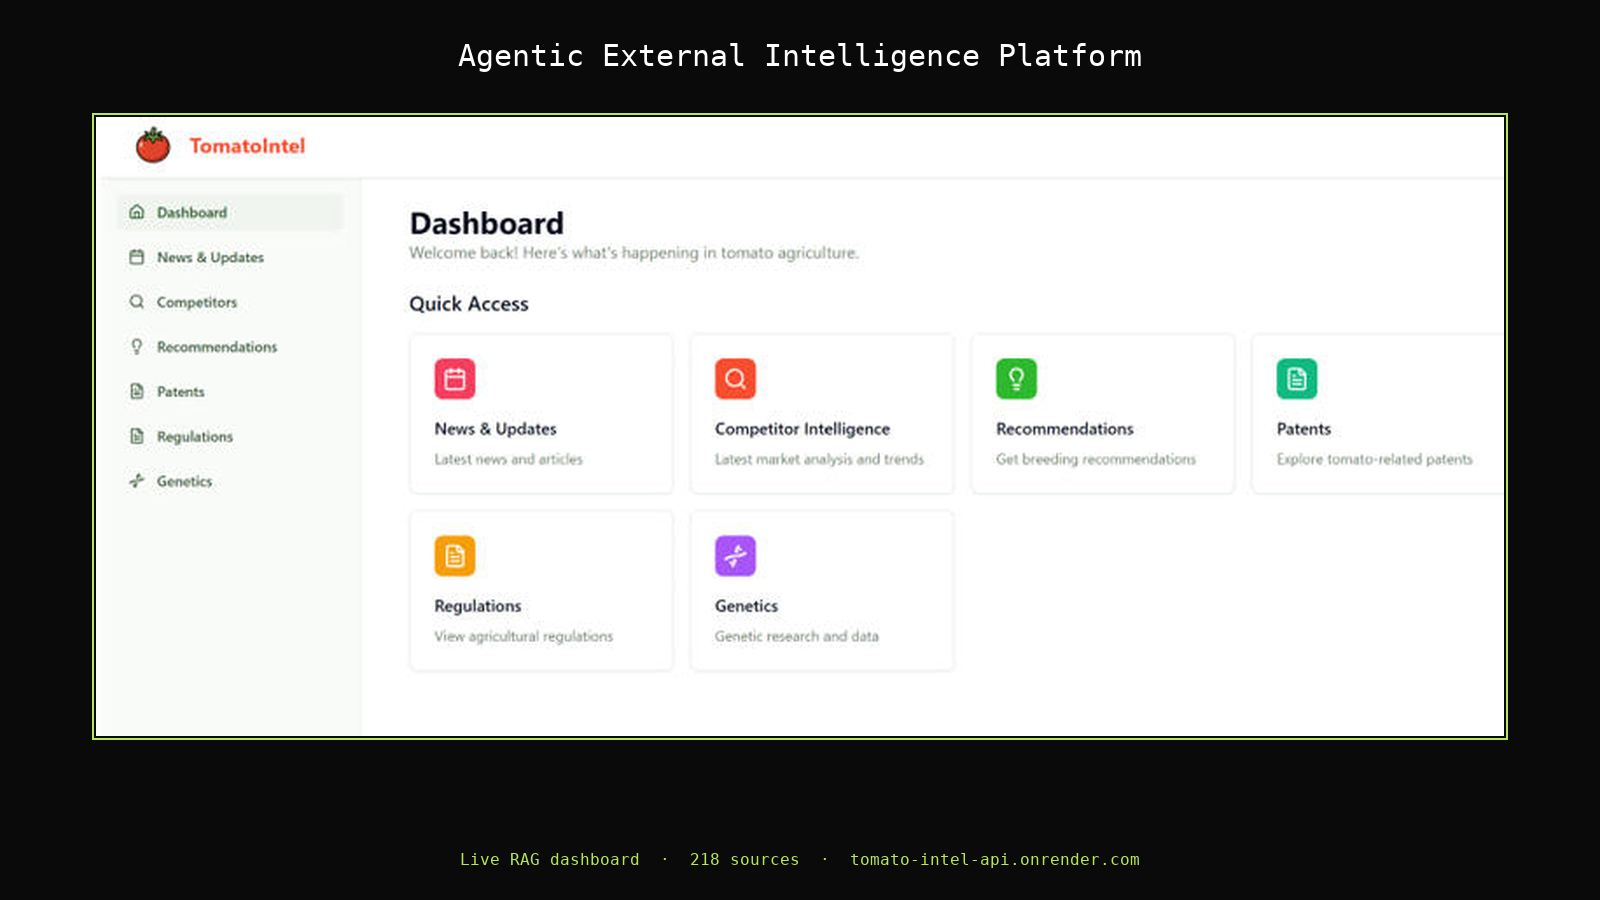
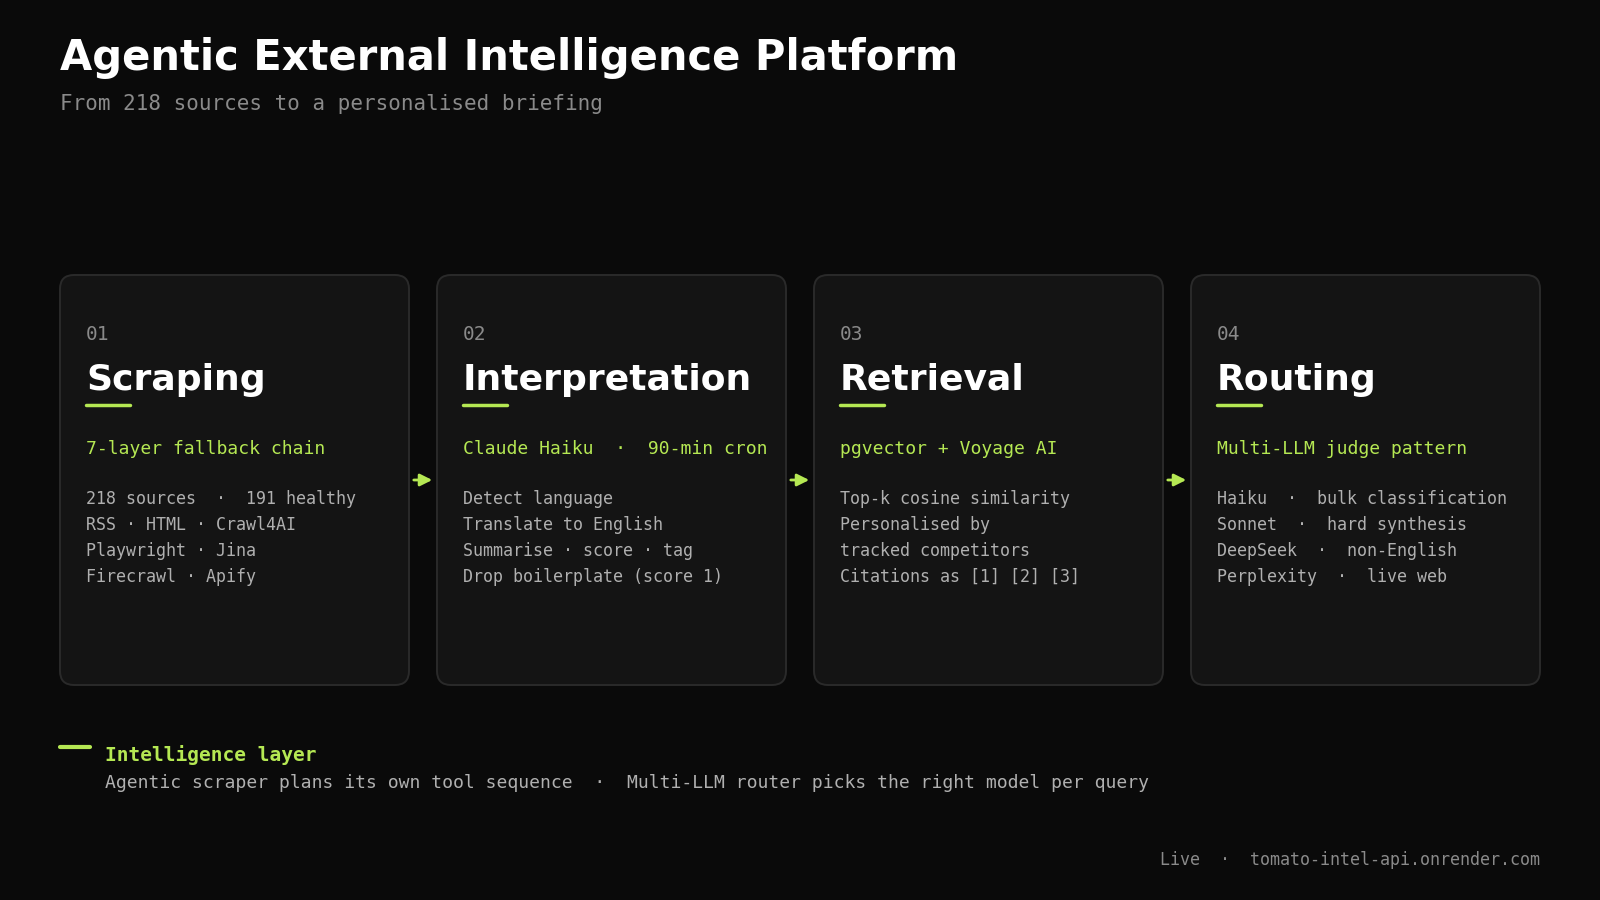
Redesign TomatoIntel cover as four-job intelligence flow
Replaces the cropped dashboard screenshot with a conceptual visual
matching the AI Pipeline cover style: Scraping -> Interpretation
-> Retrieval -> Routing, with the intelligence layer called out.

diff --git a/scripts/render_tomato_cover.py b/scripts/render_tomato_cover.py
@@ -1,89 +1,158 @@
 """
-Render 1600x900 cover for the TomatoIntel case study.
+Render 1600x900 cover for the Agentic External Intelligence Platform case study.
 
-The existing JPG (835x422) is a light-mode dashboard screenshot with right-side
-whitespace. We crop the whitespace, upscale the result to a tight 16:9 size,
-center it on a #0A0A0A canvas, and add a lime-green frame plus a caption.
+Conceptual four-job flow showing how 218 sources become a personalised briefing:
+Scraping -> Interpretation -> Retrieval -> Routing. Dark theme matches the other
+case-study covers for visual coherence across the portfolio grid.
 """
 from __future__ import annotations
 
 import os
-from PIL import Image, ImageDraw, ImageFont
+import matplotlib.pyplot as plt
+from matplotlib.patches import FancyBboxPatch, FancyArrowPatch
 from matplotlib import font_manager
 
 HERE = os.path.dirname(os.path.abspath(__file__))
 SITE_ROOT = os.path.abspath(os.path.join(HERE, ".."))
-SRC = os.path.join(SITE_ROOT, "assets", "images", "projects", "tomato-intel.jpg")
 OUT = os.path.join(SITE_ROOT, "assets", "images", "projects", "tomato-intel-cover.png")
 
+BG = "#0A0A0A"
+CARD = "#141414"
+BORDER = "#2A2A2A"
+ACCENT = "#B5E853"
+TEXT = "#FFFFFF"
+SUBTLE = "#8A8A8A"
+DIM = "#B0B0B0"
+
 W, H = 1600, 900
-BG = (10, 10, 10)
-ACCENT = (181, 232, 83)
-SUBTLE = (138, 138, 138)
 
 
-def find_mono_font_path() -> str | None:
-    for name in ("JetBrains Mono", "DejaVu Sans Mono", "Consolas", "Courier New"):
-        try:
-            path = font_manager.findfont(name, fallback_to_default=False)
-            if path and os.path.exists(path):
-                return path
-        except Exception:
-            continue
-    return None
+def pick_fonts() -> tuple[str, str]:
+    available = {f.name for f in font_manager.fontManager.ttflist}
+    title = "Inter" if "Inter" in available else ("DejaVu Sans" if "DejaVu Sans" in available else "sans-serif")
+    mono = "JetBrains Mono" if "JetBrains Mono" in available else ("DejaVu Sans Mono" if "DejaVu Sans Mono" in available else "monospace")
+    return title, mono
+
+
+BOXES = [
+    {
+        "num": "01",
+        "title": "Scraping",
+        "sub": "7-layer fallback chain",
+        "detail": [
+            "218 sources  ·  191 healthy",
+            "RSS · HTML · Crawl4AI",
+            "Playwright · Jina",
+            "Firecrawl · Apify",
+        ],
+    },
+    {
+        "num": "02",
+        "title": "Interpretation",
+        "sub": "Claude Haiku  ·  90-min cron",
+        "detail": [
+            "Detect language",
+            "Translate to English",
+            "Summarise · score · tag",
+            "Drop boilerplate (score 1)",
+        ],
+    },
+    {
+        "num": "03",
+        "title": "Retrieval",
+        "sub": "pgvector + Voyage AI",
+        "detail": [
+            "Top-k cosine similarity",
+            "Personalised by",
+            "tracked competitors",
+            "Citations as [1] [2] [3]",
+        ],
+    },
+    {
+        "num": "04",
+        "title": "Routing",
+        "sub": "Multi-LLM judge pattern",
+        "detail": [
+            "Haiku  ·  bulk classification",
+            "Sonnet  ·  hard synthesis",
+            "DeepSeek  ·  non-English",
+            "Perplexity  ·  live web",
+        ],
+    },
+]
 
 
 def main() -> None:
-    src = Image.open(SRC).convert("RGB")
-    sw, sh = src.size
-    print(f"Source: {sw}x{sh}")
+    title_font, mono_font = pick_fonts()
+    print(f"Fonts: title={title_font}, mono={mono_font}")
 
-    crop_right = int(sw * 0.965)
-    crop_bottom = int(sh * 0.84)
-    cropped = src.crop((0, 0, crop_right, crop_bottom))
-    cw, ch = cropped.size
-    print(f"Cropped: {cw}x{ch}")
+    fig = plt.figure(figsize=(16, 9), facecolor=BG, dpi=100)
+    ax = fig.add_axes([0, 0, 1, 1])
+    ax.set_xlim(0, W)
+    ax.set_ylim(0, H)
+    ax.set_facecolor(BG)
+    ax.axis("off")
 
-    inner_w = int(W * 0.88)
-    inner_h = int(H * 0.74)
-    scale = min(inner_w / cw, inner_h / ch)
-    new_w = int(cw * scale)
-    new_h = int(ch * scale)
-    resized = cropped.resize((new_w, new_h), Image.LANCZOS)
-    print(f"Resized: {new_w}x{new_h}")
+    ax.text(60, H - 70, "Agentic External Intelligence Platform",
+            fontsize=30, color=TEXT, fontname=title_font, fontweight="bold")
+    ax.text(60, H - 110, "From 218 sources to a personalised briefing",
+            fontsize=15, color=SUBTLE, fontname=mono_font)
 
-    canvas = Image.new("RGB", (W, H), BG)
-    x = (W - new_w) // 2
-    y = int(H * 0.13)
-    canvas.paste(resized, (x, y))
+    n = len(BOXES)
+    margin = 60
+    gap = 28
+    total_gap = gap * (n - 1)
+    box_w = (W - 2 * margin - total_gap) / n
+    box_h = 410
+    box_y = (H - box_h) / 2 - 30
 
-    draw = ImageDraw.Draw(canvas)
-    frame_inset = 4
-    draw.rectangle(
-        [x - frame_inset, y - frame_inset, x + new_w + frame_inset - 1, y + new_h + frame_inset - 1],
-        outline=ACCENT,
-        width=2,
-    )
+    for i, b in enumerate(BOXES):
+        x = margin + i * (box_w + gap)
+        rect = FancyBboxPatch(
+            (x, box_y), box_w, box_h,
+            boxstyle="round,pad=0,rounding_size=14",
+            linewidth=1.4, edgecolor=BORDER, facecolor=CARD, zorder=2,
+        )
+        ax.add_patch(rect)
 
-    font_path = find_mono_font_path()
-    title_size = 30
-    caption_size = 16
-    if font_path:
-        title_font = ImageFont.truetype(font_path, title_size)
-        caption_font = ImageFont.truetype(font_path, caption_size)
-    else:
-        title_font = ImageFont.load_default()
-        caption_font = ImageFont.load_default()
+        ax.text(x + 26, box_y + box_h - 50, b["num"],
+                fontsize=14, color=SUBTLE, fontname=mono_font, va="top")
+        ax.text(x + 26, box_y + box_h - 88, b["title"],
+                fontsize=26, color=TEXT, fontname=title_font, fontweight="bold", va="top")
 
-    title = "Agentic External Intelligence Platform"
-    tw = draw.textlength(title, font=title_font)
-    draw.text(((W - tw) / 2, 38), title, fill=(255, 255, 255), font=title_font)
+        ax.plot([x + 26, x + 70], [box_y + box_h - 130, box_y + box_h - 130],
+                color=ACCENT, linewidth=2.5, zorder=3, solid_capstyle="round")
+        ax.text(x + 26, box_y + box_h - 165, b["sub"],
+                fontsize=13, color=ACCENT, fontname=mono_font, va="top")
 
-    sub = "Live RAG dashboard  ·  218 sources  ·  tomato-intel-api.onrender.com"
-    sw_text = draw.textlength(sub, font=caption_font)
-    draw.text(((W - sw_text) / 2, H - 50), sub, fill=ACCENT, font=caption_font)
+        for j, line in enumerate(b["detail"]):
+            ax.text(x + 26, box_y + box_h - 215 - j * 26, line,
+                    fontsize=12, color=DIM, fontname=mono_font, va="top")
 
-    canvas.save(OUT, "PNG", optimize=True)
+        if i < n - 1:
+            arrow_x_start = x + box_w + 2
+            arrow_x_end = x + box_w + gap - 2
+            arrow_y = box_y + box_h / 2
+            arr = FancyArrowPatch(
+                (arrow_x_start, arrow_y), (arrow_x_end, arrow_y),
+                arrowstyle="-|>", mutation_scale=18,
+                color=ACCENT, linewidth=2.0, zorder=3,
+            )
+            ax.add_patch(arr)
+
+    callout_y = box_y - 70
+    ax.plot([60, 90], [callout_y + 8, callout_y + 8], color=ACCENT, linewidth=3, solid_capstyle="round")
+    ax.text(105, callout_y, "Intelligence layer",
+            fontsize=14, color=ACCENT, fontname=mono_font, fontweight="bold", va="center")
+    ax.text(105, callout_y - 28,
+            "Agentic scraper plans its own tool sequence  ·  Multi-LLM router picks the right model per query",
+            fontsize=13, color=DIM, fontname=mono_font, va="center")
+
+    ax.text(W - 60, 40, "Live  ·  tomato-intel-api.onrender.com",
+            fontsize=12, color=SUBTLE, fontname=mono_font, ha="right", va="center")
+
+    os.makedirs(os.path.dirname(OUT), exist_ok=True)
+    fig.savefig(OUT, facecolor=BG, dpi=100)
     print(f"Wrote {OUT} ({W}x{H})")
 
 
